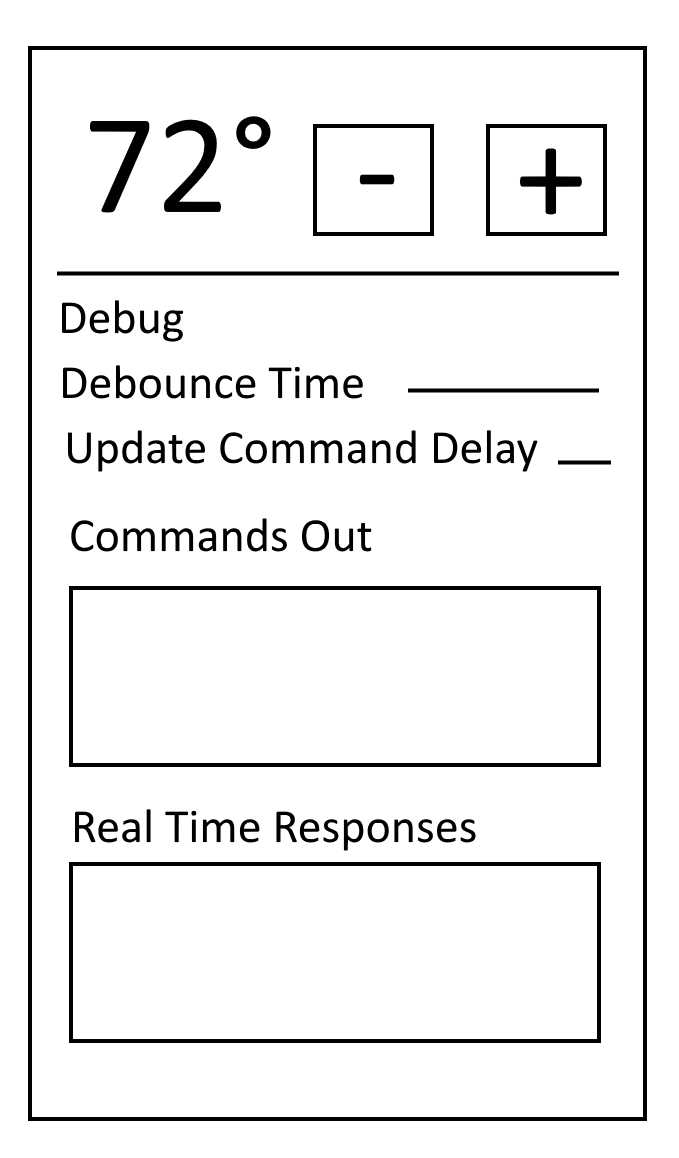
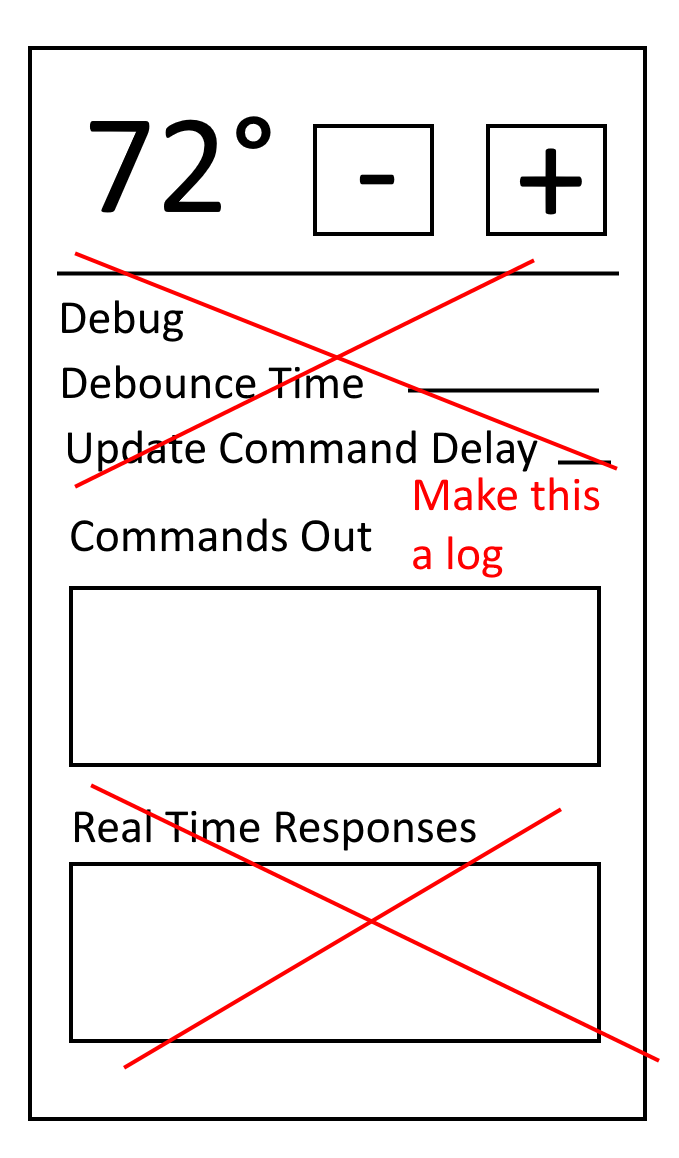
Refactored - removed unused imports - eliminated extraneous casts - removed unnecessary Scheduler usage - refactored TextView scroll to end feature into its own method

diff --git a/app/src/main/java/weberjam/reactivexhvacdebounceexample/MainActivity.java b/app/src/main/java/weberjam/reactivexhvacdebounceexample/MainActivity.java
@@ -5,14 +5,10 @@ import android.os.Bundle;
 import android.text.method.ScrollingMovementMethod;
 import android.widget.Button;
 import android.widget.TextView;
-import android.widget.Toast;
-
-import java.time.LocalDateTime;
 import java.time.LocalTime;
 import java.util.concurrent.TimeUnit;
 
 import io.reactivex.Observable;
-import io.reactivex.android.schedulers.AndroidSchedulers;
 import io.reactivex.subjects.PublishSubject;
 
 public class MainActivity extends AppCompatActivity {
@@ -23,12 +19,12 @@ public class MainActivity extends AppCompatActivity {
         setContentView(R.layout.activity_main);
 
         /* Make scrollable text views for raw stream of commands going out */
-        TextView textViewLog = (TextView) findViewById(R.id.textViewLog);
+        TextView textViewLog = findViewById(R.id.textViewLog);
         textViewLog.setMovementMethod(new ScrollingMovementMethod());
 
         /* Emit items on button press */
-        Button buttonDecrease = (Button) findViewById(R.id.buttonDecrease);
-        Button buttonIncrease = (Button) findViewById(R.id.buttonIncrease);
+        Button buttonDecrease = findViewById(R.id.buttonDecrease);
+        Button buttonIncrease = findViewById(R.id.buttonIncrease);
         PublishSubject<Integer> psDecrease = PublishSubject.create();
         PublishSubject<Integer> psIncrease = PublishSubject.create();
         buttonDecrease.setOnClickListener(v -> psDecrease.onNext((-1)));
@@ -38,8 +34,8 @@ public class MainActivity extends AppCompatActivity {
         Observable.merge(psDecrease, psIncrease).subscribe(i -> adjustTemperature(i));
 
         /* Create observable that simulates debounced commands sent to the system */
-        TextView textTargetTemperature = (TextView) findViewById(R.id.textTargetTemperature);
-        Observable.merge(psDecrease, psIncrease).debounce(2, TimeUnit.SECONDS, AndroidSchedulers.mainThread())
+        TextView textTargetTemperature = findViewById(R.id.textTargetTemperature);
+        Observable.merge(psDecrease, psIncrease).debounce(2, TimeUnit.SECONDS)
                 .subscribe(s -> logCommand(("Send command: " + textTargetTemperature.getText())));
 
     }
@@ -47,10 +43,15 @@ public class MainActivity extends AppCompatActivity {
     /* Helper functions follow. No time spent here. PCO code, you know. :-D */
 
     private void logCommand(String s) {
-        TextView textViewLog = (TextView) findViewById(R.id.textViewLog);
-        textViewLog.setText(textViewLog.getText() + System.lineSeparator() + LocalTime.now() + ": " + s);
+        TextView textViewLog = findViewById(R.id.textViewLog);
+        s = textViewLog.getText() + System.lineSeparator() + LocalTime.now() + ": " + s;
+        textViewLog.setText(s);
+        scrollTextViewToEnd(textViewLog);
+    }
 
-        /* Scroll TextView to the bottom. From: https://stackoverflow.com/questions/3506696/auto-scrolling-textview-in-android-to-bring-text-into-view */
+    private void scrollTextViewToEnd(TextView textViewLog) {
+        /* Scroll TextView to the bottom.
+            From: https://stackoverflow.com/questions/3506696/auto-scrolling-textview-in-android-to-bring-text-into-view */
         Integer scrollAmount = textViewLog.getLayout().getLineTop(textViewLog.getLineCount()) - textViewLog.getHeight() - 1;
         if (scrollAmount > 0) textViewLog.scrollTo(0, scrollAmount);
         else textViewLog.scrollTo(0, 0);
@@ -60,7 +61,7 @@ public class MainActivity extends AppCompatActivity {
         logCommand(("User input: " + i.toString()));
 
         /* Ugly string manipulation. This is the pinical of POC code */
-        TextView textTargetTemperature = (TextView) findViewById(R.id.textTargetTemperature);
+        TextView textTargetTemperature = findViewById(R.id.textTargetTemperature);
         String s = textTargetTemperature.getText().toString();
         Integer currentTargetTemperature = Integer.valueOf(s.substring(0, s.length() - 1)) + i;
         s = currentTargetTemperature.toString() + s.substring(s.length() - 1);
